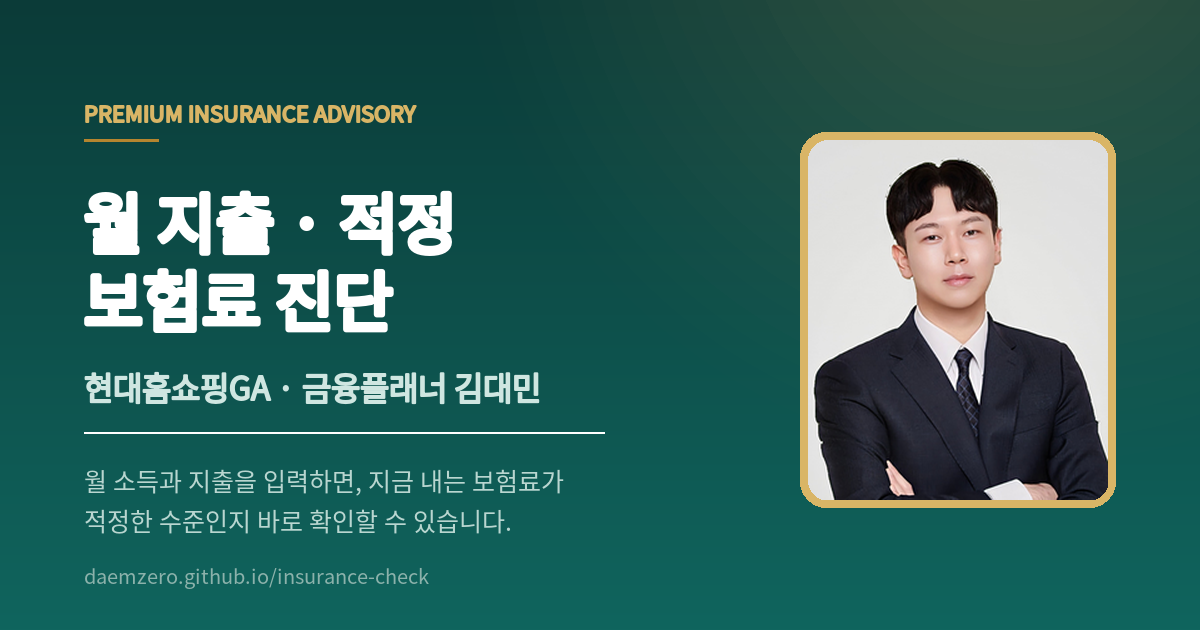
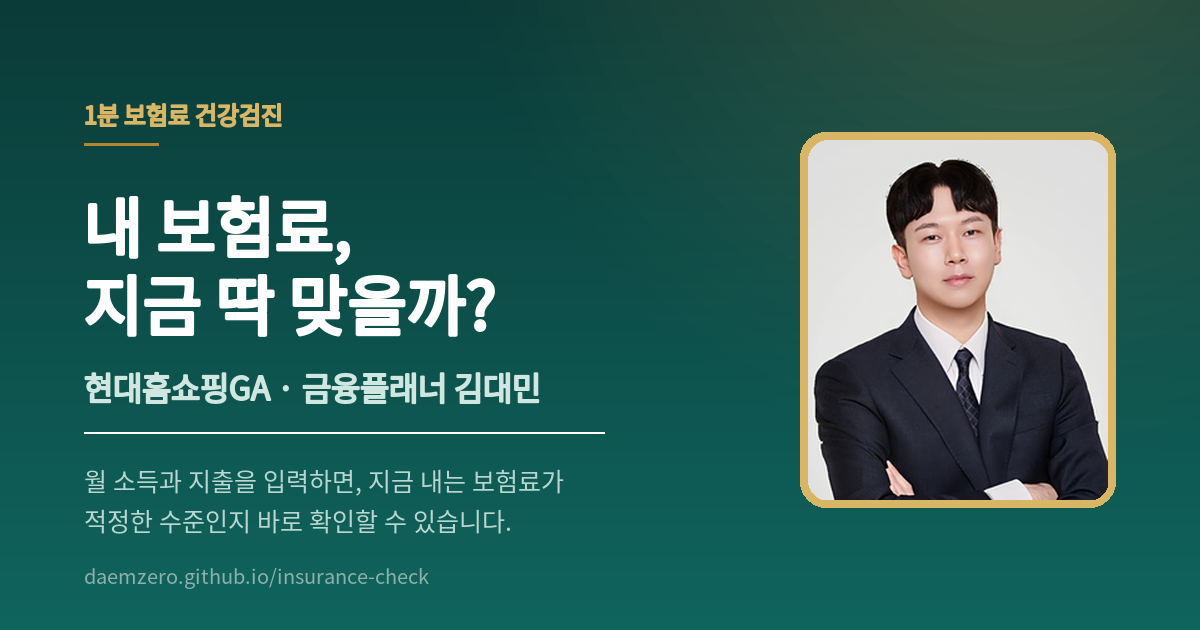
제목 변경: 1분 보험료 건강검진 / 내 보험료, 지금 딱 맞을까? (헤더·메타·og 이미지·인쇄 헤더)

Changed region(s): [[0.0617, 0.3016, 0.4317, 0.5429], [0.0617, 0.1508, 0.3392, 0.2413]]

diff --git a/index.html b/index.html
@@ -4,7 +4,7 @@
 <meta charset="utf-8">
 <meta name="viewport" content="width=device-width, initial-scale=1, maximum-scale=5">
 <meta name="theme-color" content="#134E4A">
-<title>월 지출 · 적정 보험료 진단 | 현대홈쇼핑GA 김대민</title>
+<title>내 보험료, 지금 딱 맞을까? · 1분 보험료 건강검진</title>
 <meta name="description" content="월 소득과 지출을 입력하면 지금 내는 보험료가 적정한 수준인지 바로 확인할 수 있습니다. 현대홈쇼핑GA 금융플래너 김대민.">
 <link rel="canonical" href="https://daemzero.github.io/insurance-check/">
 
@@ -14,7 +14,7 @@
 
 <!-- 카톡·문자·SNS 링크 미리보기 -->
 <meta property="og:site_name" content="현대홈쇼핑GA · 금융플래너 김대민">
-<meta property="og:title" content="월 지출 · 적정 보험료 진단">
+<meta property="og:title" content="내 보험료, 지금 딱 맞을까? · 1분 보험료 건강검진">
 <meta property="og:description" content="월 소득과 지출을 입력하면 지금 내는 보험료가 적정한 수준인지 바로 확인할 수 있습니다.">
 <meta property="og:type" content="website">
 <meta property="og:url" content="https://daemzero.github.io/insurance-check/">
@@ -24,12 +24,12 @@
 <meta property="og:image:type" content="image/png">
 <meta property="og:image:width" content="1200">
 <meta property="og:image:height" content="630">
-<meta property="og:image:alt" content="월 지출 · 적정 보험료 진단 — 현대홈쇼핑GA · 금융플래너 김대민">
+<meta property="og:image:alt" content="내 보험료, 지금 딱 맞을까? · 1분 보험료 건강검진 — 현대홈쇼핑GA · 금융플래너 김대민">
 <meta name="twitter:card" content="summary_large_image">
-<meta name="twitter:title" content="월 지출 · 적정 보험료 진단">
+<meta name="twitter:title" content="내 보험료, 지금 딱 맞을까? · 1분 보험료 건강검진">
 <meta name="twitter:description" content="월 소득과 지출을 입력하면 지금 내는 보험료가 적정한 수준인지 바로 확인할 수 있습니다.">
 <meta name="twitter:image" content="https://daemzero.github.io/insurance-check/og-image.png">
-<meta name="twitter:image:alt" content="월 지출 · 적정 보험료 진단 — 현대홈쇼핑GA · 금융플래너 김대민">
+<meta name="twitter:image:alt" content="내 보험료, 지금 딱 맞을까? · 1분 보험료 건강검진 — 현대홈쇼핑GA · 금융플래너 김대민">
 <style>
   :root{
     --teal-900:#0B3B38;
@@ -82,8 +82,8 @@
     background:linear-gradient(90deg, rgba(217,181,102,0), var(--gold-soft), rgba(217,181,102,0));
   }
   .eyebrow{
-    font-size:11px;letter-spacing:.28em;color:var(--gold-soft);
-    font-weight:700;text-transform:uppercase;margin-bottom:12px;
+    font-size:11.5px;letter-spacing:.07em;color:var(--gold-soft);
+    font-weight:700;margin-bottom:12px;
   }
   .hero h1{
     margin:0 0 10px;
@@ -490,7 +490,7 @@
     .hero h1{font-size:16pt;margin:0 0 1mm;line-height:1.2;}
     .hero-sub{font-size:8.5pt;margin:0;}
     .hero-desc{display:none;}
-    .eyebrow{font-size:6.5pt;letter-spacing:.24em;margin-bottom:1.2mm;}
+    .eyebrow{font-size:6.5pt;letter-spacing:.05em;margin-bottom:1.2mm;}
     #printHead{margin:0 0 2.5mm !important;font-size:7.5pt !important;}
 
     /* 카드 공통 */
@@ -606,8 +606,8 @@
 <div class="page">
 
   <header class="hero">
-    <div class="eyebrow">Premium Insurance Advisory</div>
-    <h1>월 지출 · 적정 보험료 진단</h1>
+    <div class="eyebrow">1분 보험료 건강검진</div>
+    <h1>내 보험료, 지금 딱 맞을까?</h1>
     <p class="hero-sub">현대홈쇼핑GA · 금융플래너 김대민</p>
     <p class="hero-desc">월 소득과 지출을 입력하시면, 지금 내는 보험료가 적정한 수준인지 바로 확인하실 수 있습니다.</p>
   </header>
@@ -1531,7 +1531,7 @@
     var d = new Date();
     var dateStr = d.getFullYear() + ". " + (d.getMonth() + 1) + ". " + d.getDate();
     var name = ($("clientName").value || "").trim();
-    $("printHead").textContent = "적정 보험료 진단 결과  ·  " + dateStr + (name ? "  ·  고객 " + name : "");
+    $("printHead").textContent = "1분 보험료 건강검진 결과  ·  " + dateStr + (name ? "  ·  고객 " + name : "");
   }
   window.addEventListener("beforeprint", function(){ printHeard = true; preparePrint(); });
 
@@ -1587,7 +1587,7 @@
     var contact = contactValue();
     var stamp = nowStamp();
     return {
-      "_subject": "[월 지출·적정 보험료 진단] " + name + " 고객 · " + stamp,
+      "_subject": "[1분 보험료 건강검진] " + name + " 고객 · " + stamp,
       "_template": "table",
       "_captcha": "false",
       "고객 성함": name,

diff --git a/index.template.html b/index.template.html
@@ -4,7 +4,7 @@
 <meta charset="utf-8">
 <meta name="viewport" content="width=device-width, initial-scale=1, maximum-scale=5">
 <meta name="theme-color" content="#134E4A">
-<title>월 지출 · 적정 보험료 진단 | 현대홈쇼핑GA 김대민</title>
+<title>내 보험료, 지금 딱 맞을까? · 1분 보험료 건강검진</title>
 <meta name="description" content="월 소득과 지출을 입력하면 지금 내는 보험료가 적정한 수준인지 바로 확인할 수 있습니다. 현대홈쇼핑GA 금융플래너 김대민.">
 <link rel="canonical" href="https://daemzero.github.io/insurance-check/">
 
@@ -14,7 +14,7 @@
 
 <!-- 카톡·문자·SNS 링크 미리보기 -->
 <meta property="og:site_name" content="현대홈쇼핑GA · 금융플래너 김대민">
-<meta property="og:title" content="월 지출 · 적정 보험료 진단">
+<meta property="og:title" content="내 보험료, 지금 딱 맞을까? · 1분 보험료 건강검진">
 <meta property="og:description" content="월 소득과 지출을 입력하면 지금 내는 보험료가 적정한 수준인지 바로 확인할 수 있습니다.">
 <meta property="og:type" content="website">
 <meta property="og:url" content="https://daemzero.github.io/insurance-check/">
@@ -24,12 +24,12 @@
 <meta property="og:image:type" content="image/png">
 <meta property="og:image:width" content="1200">
 <meta property="og:image:height" content="630">
-<meta property="og:image:alt" content="월 지출 · 적정 보험료 진단 — 현대홈쇼핑GA · 금융플래너 김대민">
+<meta property="og:image:alt" content="내 보험료, 지금 딱 맞을까? · 1분 보험료 건강검진 — 현대홈쇼핑GA · 금융플래너 김대민">
 <meta name="twitter:card" content="summary_large_image">
-<meta name="twitter:title" content="월 지출 · 적정 보험료 진단">
+<meta name="twitter:title" content="내 보험료, 지금 딱 맞을까? · 1분 보험료 건강검진">
 <meta name="twitter:description" content="월 소득과 지출을 입력하면 지금 내는 보험료가 적정한 수준인지 바로 확인할 수 있습니다.">
 <meta name="twitter:image" content="https://daemzero.github.io/insurance-check/og-image.png">
-<meta name="twitter:image:alt" content="월 지출 · 적정 보험료 진단 — 현대홈쇼핑GA · 금융플래너 김대민">
+<meta name="twitter:image:alt" content="내 보험료, 지금 딱 맞을까? · 1분 보험료 건강검진 — 현대홈쇼핑GA · 금융플래너 김대민">
 <style>
   :root{
     --teal-900:#0B3B38;
@@ -82,8 +82,8 @@
     background:linear-gradient(90deg, rgba(217,181,102,0), var(--gold-soft), rgba(217,181,102,0));
   }
   .eyebrow{
-    font-size:11px;letter-spacing:.28em;color:var(--gold-soft);
-    font-weight:700;text-transform:uppercase;margin-bottom:12px;
+    font-size:11.5px;letter-spacing:.07em;color:var(--gold-soft);
+    font-weight:700;margin-bottom:12px;
   }
   .hero h1{
     margin:0 0 10px;
@@ -490,7 +490,7 @@
     .hero h1{font-size:16pt;margin:0 0 1mm;line-height:1.2;}
     .hero-sub{font-size:8.5pt;margin:0;}
     .hero-desc{display:none;}
-    .eyebrow{font-size:6.5pt;letter-spacing:.24em;margin-bottom:1.2mm;}
+    .eyebrow{font-size:6.5pt;letter-spacing:.05em;margin-bottom:1.2mm;}
     #printHead{margin:0 0 2.5mm !important;font-size:7.5pt !important;}
 
     /* 카드 공통 */
@@ -606,8 +606,8 @@
 <div class="page">
 
   <header class="hero">
-    <div class="eyebrow">Premium Insurance Advisory</div>
-    <h1>월 지출 · 적정 보험료 진단</h1>
+    <div class="eyebrow">1분 보험료 건강검진</div>
+    <h1>내 보험료, 지금 딱 맞을까?</h1>
     <p class="hero-sub">현대홈쇼핑GA · 금융플래너 김대민</p>
     <p class="hero-desc">월 소득과 지출을 입력하시면, 지금 내는 보험료가 적정한 수준인지 바로 확인하실 수 있습니다.</p>
   </header>
@@ -1531,7 +1531,7 @@
     var d = new Date();
     var dateStr = d.getFullYear() + ". " + (d.getMonth() + 1) + ". " + d.getDate();
     var name = ($("clientName").value || "").trim();
-    $("printHead").textContent = "적정 보험료 진단 결과  ·  " + dateStr + (name ? "  ·  고객 " + name : "");
+    $("printHead").textContent = "1분 보험료 건강검진 결과  ·  " + dateStr + (name ? "  ·  고객 " + name : "");
   }
   window.addEventListener("beforeprint", function(){ printHeard = true; preparePrint(); });
 
@@ -1587,7 +1587,7 @@
     var contact = contactValue();
     var stamp = nowStamp();
     return {
-      "_subject": "[월 지출·적정 보험료 진단] " + name + " 고객 · " + stamp,
+      "_subject": "[1분 보험료 건강검진] " + name + " 고객 · " + stamp,
       "_template": "table",
       "_captcha": "false",
       "고객 성함": name,

diff --git a/make_brand_assets.py b/make_brand_assets.py
@@ -97,11 +97,11 @@ def make_og(photo):
 
     # 좌측 텍스트 블록
     x = 84
-    kr_text(d, (x, 96), "PREMIUM INSURANCE ADVISORY", 22, GOLD, bold=1)
-    d.line([(x, 140), (x + 74, 140)], fill=GOLD_DEEP, width=3)
+    kr_text(d, (x, 96), "1분 보험료 건강검진", 24, GOLD, bold=1)
+    d.line([(x, 144), (x + 74, 144)], fill=GOLD_DEEP, width=3)
 
-    kr_text(d, (x, 172), "월 지출 · 적정", 64, (255, 255, 255), bold=BOLD)
-    kr_text(d, (x, 250), "보험료 진단", 64, (255, 255, 255), bold=BOLD)
+    kr_text(d, (x, 176), "내 보험료,", 64, (255, 255, 255), bold=2)
+    kr_text(d, (x, 254), "지금 딱 맞을까?", 64, (255, 255, 255), bold=2)
 
     kr_text(d, (x, 362), "현대홈쇼핑GA · 금융플래너 김대민", 32, (207, 230, 225), bold=1)
     d.line([(x, 432), (x + 520, 432)], fill=(255, 255, 255, 40), width=2)

diff --git a/README.md b/README.md
@@ -1,4 +1,4 @@
-# 월 지출 · 적정 보험료 진단
+# 내 보험료, 지금 딱 맞을까? · 1분 보험료 건강검진
 
 상담용 인터랙티브 웹페이지입니다. 현대홈쇼핑GA · 금융플래너 김대민.
 
